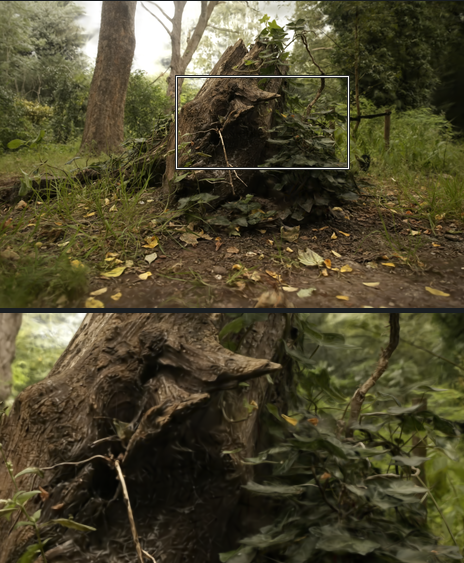
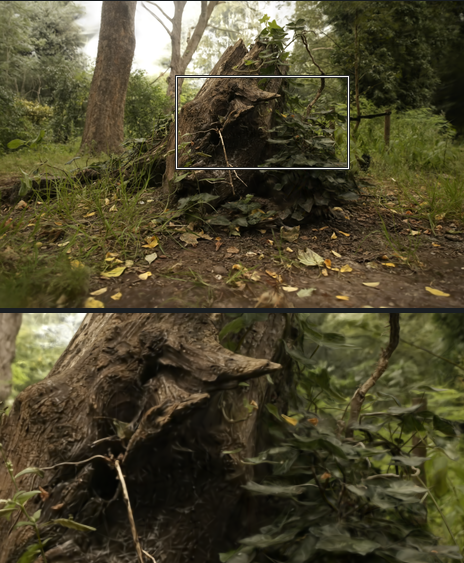
Banchmarked on 4090

diff --git a/docs/mipnerf360_3k.md b/docs/mipnerf360_3k.md
@@ -2,7 +2,7 @@
 
 ## Reproduce the benchmark
 
-Each measured scene has a training time, step count and Graphdeco image metrics. The original 3,000-step sweeps are available for both workstations. [Current measurements](benchmarks.md) · [Original RTX 4090 CSV](NVIDIA_GeForce_RTX_4090_presets.csv) · [Original RTX 4080 CSV](mipnerf360_3k_presets.csv)
+Both workstations have nine-scene measurements for the current presets and the original 3,000-step recipes. Each per-scene row records the step count, training-loop time, Graphdeco image metrics, final splats and loop-end GPU memory. [Benchmark tables](benchmarks.md) · [Current RTX 4090 CSV](NVIDIA_GeForce_RTX_4090_presets_current.csv) · [Current RTX 4080 CSV](NVIDIA_GeForce_RTX_4080_presets.csv) · [Original RTX 4090 CSV](NVIDIA_GeForce_RTX_4090_presets.csv) · [Original RTX 4080 CSV](mipnerf360_3k_presets.csv)
 
 On Windows with an NVIDIA GPU, use the benchmark driver from the repository root in the trainer’s Python environment. It records the hardware and software, runs all three presets and scores the saved renders with the pinned Graphdeco evaluator. The RTX 4090 guide covers environment and dataset setup. [Reproduce the RTX 4090 benchmark](benchmark-rtx4090.md)
 
@@ -18,7 +18,7 @@ The manual example below runs Balanced. For other presets, use their default ste
 python scripts/running/eval_sweep.py --axis seed --values 42 --iters 3000 --name my_gpu_balanced --no-plot --extra --preset balanced --backend vulkan --eval-every 0 --preview-every 0 --no-write-ground-truths --run-report --save-test-renders
 ```
 
-To score the model from a timed, training-only run, use `--no-evaluation --save-ply` as shown below. Then run `python scripts/running/prepare_graphdeco.py RUN MODEL --ply RUN/output.ply`, substituting the training directory for `RUN` and a fresh output directory for `MODEL`. The converter uses the training log and configuration, restores the PLY’s 3D filter, and renders the registered held-out cameras. Score it with `python scripts/running/score_graphdeco.py --graphdeco outputs/graphdeco_reference MODEL`. Replaying the quality preset’s 4,102,802-splat bicycle PLY at seed 42 reproduced all 76,261,050 RGB8 channel values across its 25 held-out views.
+To score the model from a timed, training-only run, use `--no-evaluation --save-ply` as shown below. Then run `python scripts/running/prepare_graphdeco.py RUN MODEL --ply RUN/output.ply`, substituting the training directory for `RUN` and a fresh output directory for `MODEL`. The converter uses the training log and configuration, restores the PLY’s 3D filter, and renders the registered held-out cameras. Score it with `python scripts/running/score_graphdeco.py --graphdeco outputs/graphdeco_reference MODEL`. Replaying the original Quality preset’s 4,102,802-splat bicycle PLY at seed 42 reproduced all 76,261,050 RGB8 channel values across its 25 held-out views.
 
 Held-out cameras are indices 0, 8, 16, and so on in filename order. Training and stereo initialization use the other views. The benchmark scenes informed preset selection. Each model directory contains `results.json` and `per_view.json`. Aggregate the nine scene means with equal weight for each seed. The reference evaluates saved RGB8 images and passes values in [0, 1] to its VGG LPIPS implementation. The wrapper caches the reference VGG network between images. On one indoor and one outdoor held-out view, its PSNR, SSIM and LPIPS matched the standalone upstream script exactly. [Per-scene preset measurements](NVIDIA_GeForce_RTX_4080_presets.csv)
 
@@ -31,7 +31,7 @@ Measure-Command {
 }
 ```
 
-`Measure-Command` stops at process exit. The training log records the optimizer loop under `train_complete.train_wall_s`, and the benchmark CSV distinguishes model readiness, PLY closure, process exit and a completed file sync. In the clean training-only CLI, the writer closes the PLY before exit and the timing harness syncs it immediately afterward. The quality run synced its PLY before scoring held-out views. Fresh processes may reuse filesystem and shader disk caches. Graphdeco’s `full_eval.py` times its training commands including model saves. [Per-scene timing boundaries](mipnerf360_3k_presets.csv) · [Upstream timing script](https://github.com/graphdeco-inria/gaussian-splatting/blob/54c035f7834b564019656c3e3fcc3646292f727d/full_eval.py)
+`Measure-Command` stops at process exit. The training log records the optimizer loop under `train_complete.train_wall_s`, and the benchmark CSV distinguishes model readiness, PLY closure, process exit and a completed file sync. In the clean training-only CLI, the writer closes the PLY before exit and the timing harness syncs it immediately afterward. The original RTX 4080 Quality run synced its PLY before scoring held-out views. Fresh processes may reuse filesystem and shader disk caches. Graphdeco’s `full_eval.py` times its training commands including model saves. [Per-scene timing boundaries](mipnerf360_3k_presets.csv) · [Upstream timing script](https://github.com/graphdeco-inria/gaussian-splatting/blob/54c035f7834b564019656c3e3fcc3646292f727d/full_eval.py)
 
 ### Compare LiteGS on the same GPU
 
@@ -104,11 +104,12 @@ PPISP also models the response curve, exposure and white balance. [PPISP, Sectio
 
 ## Regenerate the benchmark figures
 
-From the repository root, run the following commands with Matplotlib installed. Both read the checked-in per-scene CSVs.
+From the repository root, run the following commands with Matplotlib installed. They read the checked-in per-scene CSVs.
 
 ```sh
-python scripts/plots/plot_preset_results.py
+python scripts/plots/plot_preset_results.py --presets docs/NVIDIA_GeForce_RTX_4090_presets_current.csv
+python scripts/plots/plot_preset_results.py --presets docs/NVIDIA_GeForce_RTX_4080_presets.csv
 python scripts/plots/plot_method_frontiers.py
 ```
 
-To plot an RTX 4090 run, pass its CSV path to `python scripts/plots/plot_preset_results.py --presets PATH_TO_CSV`. It prints the measured preset means and writes `assets/mipnerf360-rtx4090-presets.png`. The method-comparison plot uses the RTX 4080 measurements until peer trainers are benchmarked on the 4090.
+The preset plots print the nine-scene means and write `assets/mipnerf360-rtx4090-presets.png` and `assets/mipnerf360-rtx4080-presets.png`. The method-comparison plot uses the RTX 4080, where all five trainers were measured on the same card.

diff --git a/README.md b/README.md
@@ -2,7 +2,7 @@
 
 **Efficient, extensible & low memory differentiable training.**
 
-Train a 3D Gaussian Splatting model from a COLMAP scene with Slang on Vulkan or Direct3D 12. On an **RTX 4090**, Ultrafast averages **27.10 dB PSNR in 11.85 seconds** across all nine Mip-NeRF 360 scenes. On a **16 GB RTX 4080**, the updated Quality preset reaches **27.90 dB in 32.44 seconds** with **2.11M final splats**. Times cover the training loop. [Same-GPU comparison with LiteGS, SAD-GS and FastGS](docs/benchmarks.md#rtx-4080-comparison)
+Train a 3D Gaussian Splatting model from a COLMAP scene with Slang on Vulkan or Direct3D 12. On an **RTX 4090**, Quality averages **27.89 dB PSNR in 22.61 seconds** across the nine Mip-NeRF 360 scenes, with **2.10M final splats**. Ultrafast averages **27.12 dB in 10.54 seconds** on the same card. Times cover the training loop. [RTX 4080 comparison with LiteGS, SAD-GS and FastGS](docs/benchmarks.md#rtx-4080-comparison)
 
 For GPUs with less VRAM, Balanced streams training images from system RAM. It used **2.72–2.90 GiB of VRAM at loop end** across the two workstations. [VRAM and system RAM breakdown](docs/benchmarks.md#where-memory-goes)
 
@@ -16,20 +16,40 @@ For GPUs with less VRAM, Balanced streams training images from system RAM. It us
 
 </div>
 
-**9.21 s for 3,000 optimization steps.** Playback starts with the training loop. Before the clip, the hub spent 0.38 s loading Stump, 0.53 s waiting for Start, and 2.95 s preparing training. The result appeared **13.08 s after scene open**. The same loop took 8.96 s in a separate unrecorded hub run and 8.95 s in the headless benchmark.
+**9.21 s for 3,000 optimization steps.** Playback starts with the training loop. Before the clip, the hub spent 0.38 s loading Stump, 0.53 s waiting for Start, and 2.95 s preparing training. The result appeared **13.08 s after scene open**. The same loop took 8.96 s in a separate unrecorded hub run and 8.95 s in the original headless benchmark.
 
 ## Mip-NeRF 360
 
-| Preset | GPU | Steps | Training loop | PSNR ↑ | SSIM ↑ | VGG LPIPS ↓ | VRAM at loop end |
-| --- | --- | ---: | ---: | ---: | ---: | ---: | ---: |
-| Ultrafast | RTX 4090 | 3,000 | 11.85 s | 27.10 dB | 0.7930 | 0.2567 | 5.29 GiB |
-| Balanced (default) | RTX 4090 | 3,000 | 17.31 s | 27.42 dB | 0.8143 | 0.2229 | 2.81 GiB |
-| **Quality** | **RTX 4080** | **3,500** | **32.44 s** | **27.90 dB** | **0.8286** | **0.1997** | **4.80 GiB** |
-| Quality (previous) | RTX 4090 | 3,000 | 23.24 s | 27.79 dB | 0.8274 | 0.2011 | 6.14 GiB |
+### RTX 4090
 
-On the same 4080, the previous Quality preset reached 27.78 dB in 33.85 s with 3.08M splats. The updated preset improved PSNR on all nine scenes and used 32% fewer splats on average. Its 4090 rerun is pending. Each row averages nine headless Vulkan runs at seed 42. Graphdeco scored 246 held-out views at quarter resolution outdoors and half resolution indoors. Timing excludes loading, initialization, evaluation and export. [4080 CSV](docs/NVIDIA_GeForce_RTX_4080_presets.csv) · [Original 4090 CSV](docs/NVIDIA_GeForce_RTX_4090_presets.csv) · [Reproduce the benchmark](docs/benchmark-rtx4090.md)
+| Preset | Steps | Training loop | PSNR ↑ | SSIM ↑ | VGG LPIPS ↓ | Final splats | VRAM at loop end |
+| --- | ---: | ---: | ---: | ---: | ---: | ---: | ---: |
+| Ultrafast | 3,000 | 10.54 s | 27.12 dB | 0.7935 | 0.2564 | 1.43M | 5.29 GiB |
+| Balanced (default) | 3,000 | 15.92 s | 27.41 dB | 0.8143 | 0.2229 | 2.07M | 2.81 GiB |
+| **Quality** | 3,500 | 22.61 s | 27.89 dB | 0.8285 | 0.1996 | 2.10M | 4.81 GiB |
 
-![RTX 4080 training-loop time, PSNR, SSIM and VGG LPIPS by scene for Ultrafast, Balanced and the updated Quality preset](assets/mipnerf360-rtx4080-presets.png)
+Compared with the previous 3,000-step Quality preset on this 4090, the 3,500-step preset gained **0.11 dB** on average and improved PSNR on **all nine scenes**. Mean final splat count fell **31.5%**, from 3.07M to 2.10M. Mean loop time went from 23.24 s to 22.61 s. [Current 4090 CSV](docs/NVIDIA_GeForce_RTX_4090_presets_current.csv) · [Previous 4090 CSV](docs/NVIDIA_GeForce_RTX_4090_presets.csv)
+
+Each row averages nine scenes equally, with one headless Vulkan run per scene at seed 42. Graphdeco scored 246 held-out views per preset at quarter resolution outdoors and half resolution indoors. Timing excludes loading, initialization, evaluation and export. VRAM is process-local GPU memory sampled at loop end. [Reproduce the benchmark](docs/benchmark-rtx4090.md)
+
+Ultrafast and Balanced keep their 3,000-step settings. Applying Quality’s 75% post-growth retention produced about 25% fewer final splats on Bicycle and Kitchen. SSIM and VGG LPIPS worsened in all four runs. [Pruning comparison](docs/benchmarks.md#pruning-in-ultrafast-and-balanced)
+
+![RTX 4090 training-loop time, PSNR, SSIM and VGG LPIPS by scene for the three current presets](assets/mipnerf360-rtx4090-presets.png)
+
+<details>
+<summary>RTX 4080 results</summary>
+
+| Preset | Steps | Training loop | PSNR ↑ | SSIM ↑ | VGG LPIPS ↓ | Final splats | VRAM at loop end |
+| --- | ---: | ---: | ---: | ---: | ---: | ---: | ---: |
+| Ultrafast | 3,000 | 17.62 s | 27.13 dB | 0.7936 | 0.2567 | 1.43M | 5.29 GiB |
+| Balanced (default) | 3,000 | 25.97 s | 27.39 dB | 0.8143 | 0.2229 | 2.07M | 2.80 GiB |
+| **Quality** | 3,500 | 32.44 s | 27.90 dB | 0.8286 | 0.1997 | 2.11M | 4.80 GiB |
+
+The updated Quality preset improved PSNR on all nine scenes and used 32% fewer final splats than the previous Quality preset on this card. [4080 CSV](docs/NVIDIA_GeForce_RTX_4080_presets.csv) · [4080 comparisons and timings](docs/benchmarks.md#current-presets)
+
+![RTX 4080 training-loop time, PSNR, SSIM and VGG LPIPS by scene for the three current presets](assets/mipnerf360-rtx4080-presets.png)
+
+</details>
 
 ## Requirements
 
@@ -88,7 +108,7 @@ Run `.\.venv\Scripts\python.exe -m trainer.frontend.app --help` to see every fla
 
 ## Reconstructions
 
-Each row pairs a held-out photo with the three renders scored in the original RTX 4090 benchmark. All gallery models used 3,000 steps, including the previous Quality preset.
+Each row pairs a held-out photo with the three renders from the RTX 4090 benchmark. Ultrafast and Balanced trained for 3,000 steps and Quality trained for 3,500, all at seed 42. The box marks the area shown at native resolution below each image.
 
 <table>
   <thead>

diff --git a/docs/benchmarks.md b/docs/benchmarks.md
@@ -2,19 +2,28 @@
 
 ## RTX 4090 presets
 
-On the **RTX 4090 24 GB**, Balanced averaged **17.31 seconds** per training loop and **27.42 dB** held-out PSNR. The same preset averaged 25.97 seconds and 27.39 dB on the [RTX 4080 workstation](#current-presets), a 33% reduction in loop time on the newer workstation.
+On the **RTX 4090 24 GB**, Quality averaged **27.89 dB in 22.61 s** with **2.10M final splats**. Compared with the previous Quality sweep on the same card, PSNR improved on all nine scenes by an average of 0.108 dB, final splat count fell 31.5%, and loop-end GPU memory fell 21.7%. [Current per-scene measurements](NVIDIA_GeForce_RTX_4090_presets_current.csv) · [Original per-scene measurements](NVIDIA_GeForce_RTX_4090_presets.csv)
 
-| Preset | Train loop | PSNR ↑ | SSIM ↑ | VGG LPIPS ↓ | VRAM at loop end |
-| --- | ---: | ---: | ---: | ---: | ---: |
-| Ultrafast | 11.85 s | 27.10 dB | 0.7930 | 0.2567 | 5.29 GiB |
-| Balanced | 17.31 s | 27.42 dB | 0.8143 | 0.2229 | 2.81 GiB |
-| Quality (previous) | 23.24 s | 27.79 dB | 0.8274 | 0.2011 | 6.14 GiB |
+| Preset | Steps | Train loop | PSNR ↑ | SSIM ↑ | VGG LPIPS ↓ | Final splats | VRAM at loop end |
+| --- | ---: | ---: | ---: | ---: | ---: | ---: | ---: |
+| Ultrafast | 3,000 | 10.54 s | 27.12 dB | 0.7935 | 0.2564 | 1.43M | 5.29 GiB |
+| Balanced | 3,000 | 15.92 s | 27.41 dB | 0.8143 | 0.2229 | 2.07M | 2.81 GiB |
+| **Quality** | **3,500** | **22.61 s** | **27.89 dB** | **0.8285** | **0.1996** | **2.10M** | **4.81 GiB** |
+| Quality (previous) | 3,000 | 23.24 s | 27.79 dB | 0.8274 | 0.2011 | 3.07M | 6.14 GiB |
 
-This sweep predates the Quality allocator and final pruning pass. Each preset trained for 3,000 steps at seed 42 on all nine scenes, using quarter resolution outdoors and half resolution indoors. The clock covers the headless Vulkan training loop and excludes loading, initialization, evaluation and export. VRAM is the trainer process’s local GPU memory sampled at loop end. Graphdeco scored all 246 held-out views per preset using RGB8 renders. We averaged views within each scene, then weighted all nine scenes equally. [Per-scene RTX 4090 measurements](NVIDIA_GeForce_RTX_4090_presets.csv)
+Quality gained the most PSNR on Bonsai (+0.237 dB) and the least on Stump (+0.002 dB). SSIM improved on seven scenes, with small decreases on Stump (−0.00030) and Treehill (−0.00061). VGG LPIPS improved on eight scenes and rose by 0.00043 on Treehill. Six scenes trained faster. Counter, Kitchen and Room took 0.14, 0.23 and 0.02 s longer, respectively.
 
-The Lenovo workstation ran Windows 11 Enterprise on a 32-core Threadripper PRO 9975WX with NVIDIA driver 610.88. These measurements predate the public release and used SlangPy 0.42.0 and Python 3.11.9. The workstation record identifies the measured trainer sources by SHA-256. Graphdeco evaluation used PyTorch 2.10.0+cu128 and torchvision 0.25.0+cu128. [Workstation record](NVIDIA_GeForce_RTX_4090_system.txt) · [Reproduce the sweep](benchmark-rtx4090.md)
+Quality's proposed splits exceeded the growth capacity at 11 of 27 structure updates. All nine runs reached their 75% retention target at step 2,100. All 27 runs across the three presets completed training and held-out rendering with zero sort overflows. Ultrafast and Balanced used their existing 3,000-step settings. They averaged 11.85 s and 17.31 s in the original sweep and 10.54 s and 15.92 s in this one, with mean PSNR changes of +0.021 and −0.010 dB, respectively.
+
+Each preset trained once per scene at seed 42, using quarter resolution outdoors and half resolution indoors. The clock covers the headless Vulkan training loop and excludes loading, initialization, evaluation and export. VRAM is the trainer process’s local GPU memory sampled at loop end. Graphdeco scored 246 held-out RGB8 renders per preset. Each scene contributes equally to the means after averaging its held-out views.
+
+Both sweeps used the same Lenovo workstation with a 32-core Threadripper PRO 9975WX, Windows 11 Enterprise, NVIDIA driver 610.88, SlangPy 0.42.0 and Python 3.11.9. Graphdeco evaluation used PyTorch 2.10.0+cu128 and torchvision 0.25.0+cu128. The current trainer revision is `da6b847`. [Current system record](NVIDIA_GeForce_RTX_4090_system_current.txt) · [Original system record](NVIDIA_GeForce_RTX_4090_system.txt) · [Reproduce the sweep](benchmark-rtx4090.md)
 
 ![Training-loop time, PSNR, SSIM and VGG LPIPS by scene and preset on the RTX 4090](../assets/mipnerf360-rtx4090-presets.png)
+
+### Pruning in Ultrafast and Balanced
+
+To test Quality’s post-growth pruning on the two 3,000-step presets, we retrained Bicycle and Kitchen at seed 42 with `--final-splat-fraction 0.75`. Each run used the corresponding default preset for all other training settings. Across those four pairs, pruning reduced final splat count by about 25% and shortened the measured loops by 0.28–0.62 s. SSIM fell and VGG LPIPS rose in every pair. PSNR fell slightly on Bicycle and rose slightly on Kitchen with both presets. Loop-end VRAM differed by at most 4 MiB. [Four pruned runs](mipnerf360_prune75_4090.csv) · [Matched default runs](NVIDIA_GeForce_RTX_4090_presets_current.csv)
 
 <a id="current-presets"></a>
 

diff --git a/docs/benchmark-rtx4090.md b/docs/benchmark-rtx4090.md
@@ -1,8 +1,8 @@
 # Reproduce the RTX 4090 benchmark
 
-The original 3,000-step sweep averaged **11.85 s** per scene for Ultrafast, **17.31 s** for Balanced and **23.24 s** for the previous Quality recipe. The command below measures the current presets. Keep the original CSV alongside the new sweep so the two Quality versions can be compared. [Original RTX 4090 results](benchmarks.md#rtx-4090-presets) · [Per-scene CSV](NVIDIA_GeForce_RTX_4090_presets.csv) · [System record](NVIDIA_GeForce_RTX_4090_system.txt)
+The benchmark measures training-loop time, held-out image quality, final splat count and loop-end GPU memory on all nine Mip-NeRF 360 scenes. The current sweep uses each preset's default step count. The original 3,000-step sweep provides the baseline for comparing Quality recipes. [RTX 4090 comparison](benchmarks.md#rtx-4090-presets) · [Current per-scene CSV](NVIDIA_GeForce_RTX_4090_presets_current.csv) · [Original per-scene CSV](NVIDIA_GeForce_RTX_4090_presets.csv)
 
-Run the commands from the repository root with the hub closed and the GPU idle. The published sweep used an RTX 4090 (24 GB), a 32-core Threadripper PRO 9975WX and Windows 11. [Hardware and software versions](NVIDIA_GeForce_RTX_4090_system.txt)
+Run the commands from the repository root with the hub closed and the GPU idle. Both sweeps used the same RTX 4090 (24 GB) workstation with a 32-core Threadripper PRO 9975WX and Windows 11. [Current system record](NVIDIA_GeForce_RTX_4090_system_current.txt) · [Original system record](NVIDIA_GeForce_RTX_4090_system.txt)
 
 ## Set up once
 
@@ -25,16 +25,14 @@ python scripts/data/download_stbn.py
 
 The sweep runs **27 fresh training processes** on a first pass. It reads the default step count from each preset. Expect **3,000** for Ultrafast and Balanced and **3,500** for Quality. Each preset uses seed 42 on all nine scenes, including flowers and treehill. It uses the stored quarter-resolution images outdoors and half-resolution images indoors. Every eighth camera is held out. Each preset must score all 246 held-out views.
 
-Report **mean training-loop seconds per scene** and **Graphdeco RGB8 PSNR, SSIM and VGG LPIPS**. The clock excludes setup, evaluation and export. Average views within each scene, then give each of the nine scenes equal weight. An interrupted run can resume with the same command on the same checkout. Record any contention or reruns alongside the results. [Full protocol](mipnerf360_3k.md#reproduce-the-benchmark)
+Report **mean training-loop seconds per scene** and **Graphdeco RGB8 PSNR, SSIM and VGG LPIPS**. The clock excludes setup, evaluation and export. Average views within each scene, then give each of the nine scenes equal weight. The published sweep was interrupted after eight Ultrafast scenes finished. On the same workstation and trainer revision, the driver reused those eight completed runs and ran Room to finish Ultrafast. [Full protocol](mipnerf360_3k.md#reproduce-the-benchmark)
 
 The command writes two files under `outputs/benchmarks/NVIDIA_GeForce_RTX_4090/<revision>-<source hash>/`. The source hash includes local trainer and shader edits, so a patched checkout gets a separate run directory.
 
 - `NVIDIA_GeForce_RTX_4090_presets.csv` — one measured row per scene and preset.
 - `NVIDIA_GeForce_RTX_4090_system.txt` — workstation, driver, software versions and trainer revision.
 
-With Matplotlib installed, `python scripts/plots/plot_preset_results.py --presets PATH_TO_CSV` prints the table and writes a 4090-specific chart.
-
-For the handoff, keep the new CSV and system record together. Compare Quality against its earlier 4090 row on training-loop time, PSNR, SSIM, VGG LPIPS, final splats and loop-end VRAM. The Stump demo is a separate interactive Ultrafast run. [RTX 4080 comparison](benchmarks.md#current-presets)
+With Matplotlib installed, `python scripts/plots/plot_preset_results.py --presets docs/NVIDIA_GeForce_RTX_4090_presets_current.csv` prints the published means and regenerates the RTX 4090 chart. Pass the path to a new sweep's CSV to plot that run.
 
 ## Interactive Stump demo
 

diff --git a/docs/usage.md b/docs/usage.md
@@ -34,13 +34,13 @@ The trainer opens its viewer by default. Use `--no-viewer` for headless training
 
 During optimization the viewer presents at up to 15 frames per second so training can use the same GPU. Pausing the run or viewing the completed model restores the viewer’s normal refresh rate.
 
-All three presets use stereo matches from training views, a lens response fitted from training landmarks, and the `short` learning-rate schedule. Choose a preset with `--preset` or in the viewer. [Measured speed and quality](benchmarks.md#current-presets)
+All three presets use stereo matches from training views, a lens response fitted from training landmarks, and the `short` learning-rate schedule. Choose a preset with `--preset` or in the viewer. [RTX 4090 benchmarks](benchmarks.md#rtx-4090-presets) · [RTX 4080 benchmarks](benchmarks.md#current-presets)
 
-| Preset | Steps | SH degree | Pixels supervised per step | Growth capacity | Training images |
-| --- | ---: | ---: | ---: | ---: | --- |
-| `ultrafast` | 3,000 | 2 | 25% STBN | 1.85M | GPU-resident |
-| `balanced` (default) | 3,000 | 2 | 100% | 2.60M | Streamed |
-| `quality` | 3,500 | 3 | 100% | 4.00M | Streamed |
+| Preset | Steps | SH degree | Pixels supervised per step | Growth capacity | Fraction kept after growth | Training images |
+| --- | ---: | ---: | ---: | ---: | ---: | --- |
+| `ultrafast` | 3,000 | 2 | 25% STBN | 1.85M | 100% | GPU-resident |
+| `balanced` (default) | 3,000 | 2 | 100% | 2.60M | 100% | Streamed |
+| `quality` | 3,500 | 3 | 100% | 4.00M | 75% target | Streamed |
 
 Ultrafast renders at the full selected image dimensions and samples the pixel gradients. Download NVIDIA’s masks once with `python scripts/data/download_stbn.py`. Balanced and quality use every pixel and need no mask download. [STBN asset terms](stbn_pixel_sampling.md)
 
